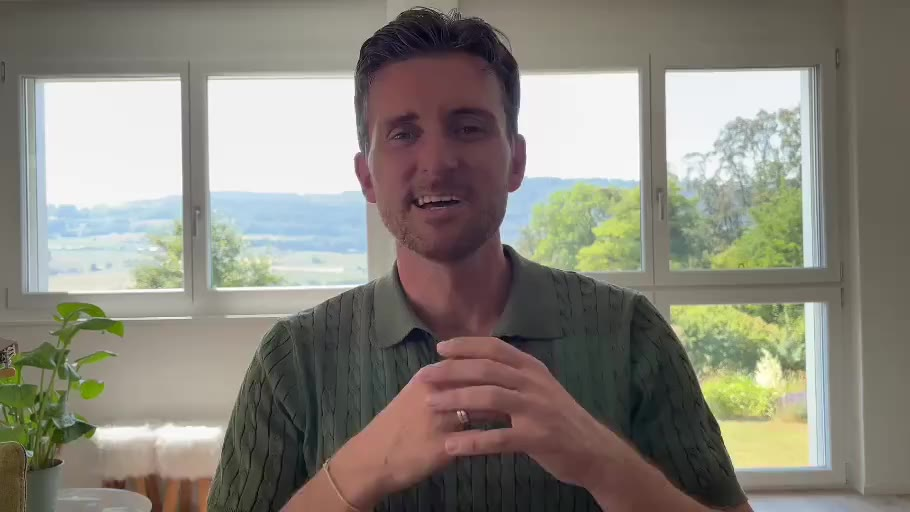
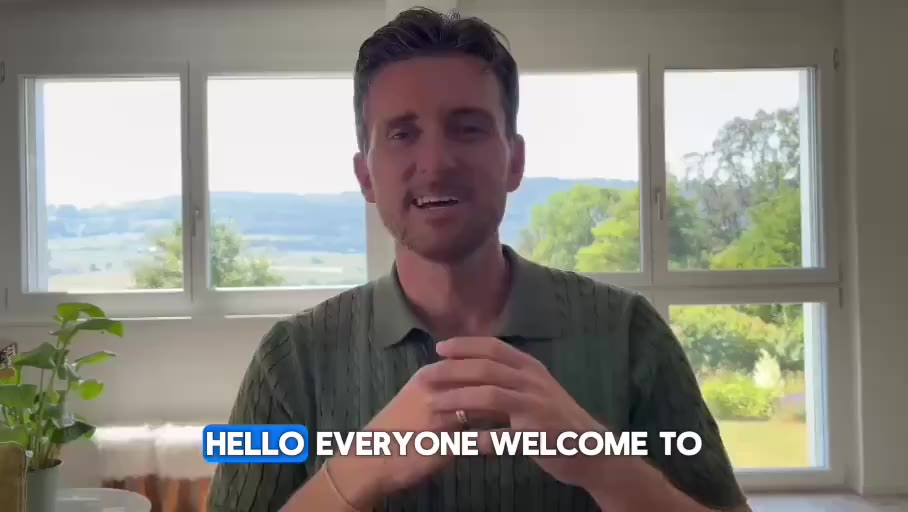
Use updated intro video (subtitled cut)
Swap in the newer intro recording (with on-screen subtitles),
web-optimized from ~31MB to ~3MB, and regenerate the matching poster.
Restore the "on-screen subtitles" mention in the aria-label.

Claude-Session: https://claude.ai/code/session_01FUczCoiUgePSWmG6jHJd1L

Changed region(s): [[0.2159, 0.8125, 0.7709, 0.9062]]

diff --git a/index.html b/index.html
@@ -975,7 +975,7 @@ body.consent-pending .sticky-cta{display:none !important;}
       <span class="pv-badge"><span class="pv-dot" aria-hidden="true"></span> Course intro</span>
       <video src="images/course-intro.mp4" poster="images/course-intro-poster.jpg"
              autoplay muted loop playsinline preload="metadata"
-             aria-label="Silent course intro video with Antoine"></video>
+             aria-label="Silent course intro video with Antoine, with on-screen subtitles"></video>
     </div>
     <div class="mod-grid" role="list">
       <article class="mod-card reveal" role="listitem" data-delay="1">